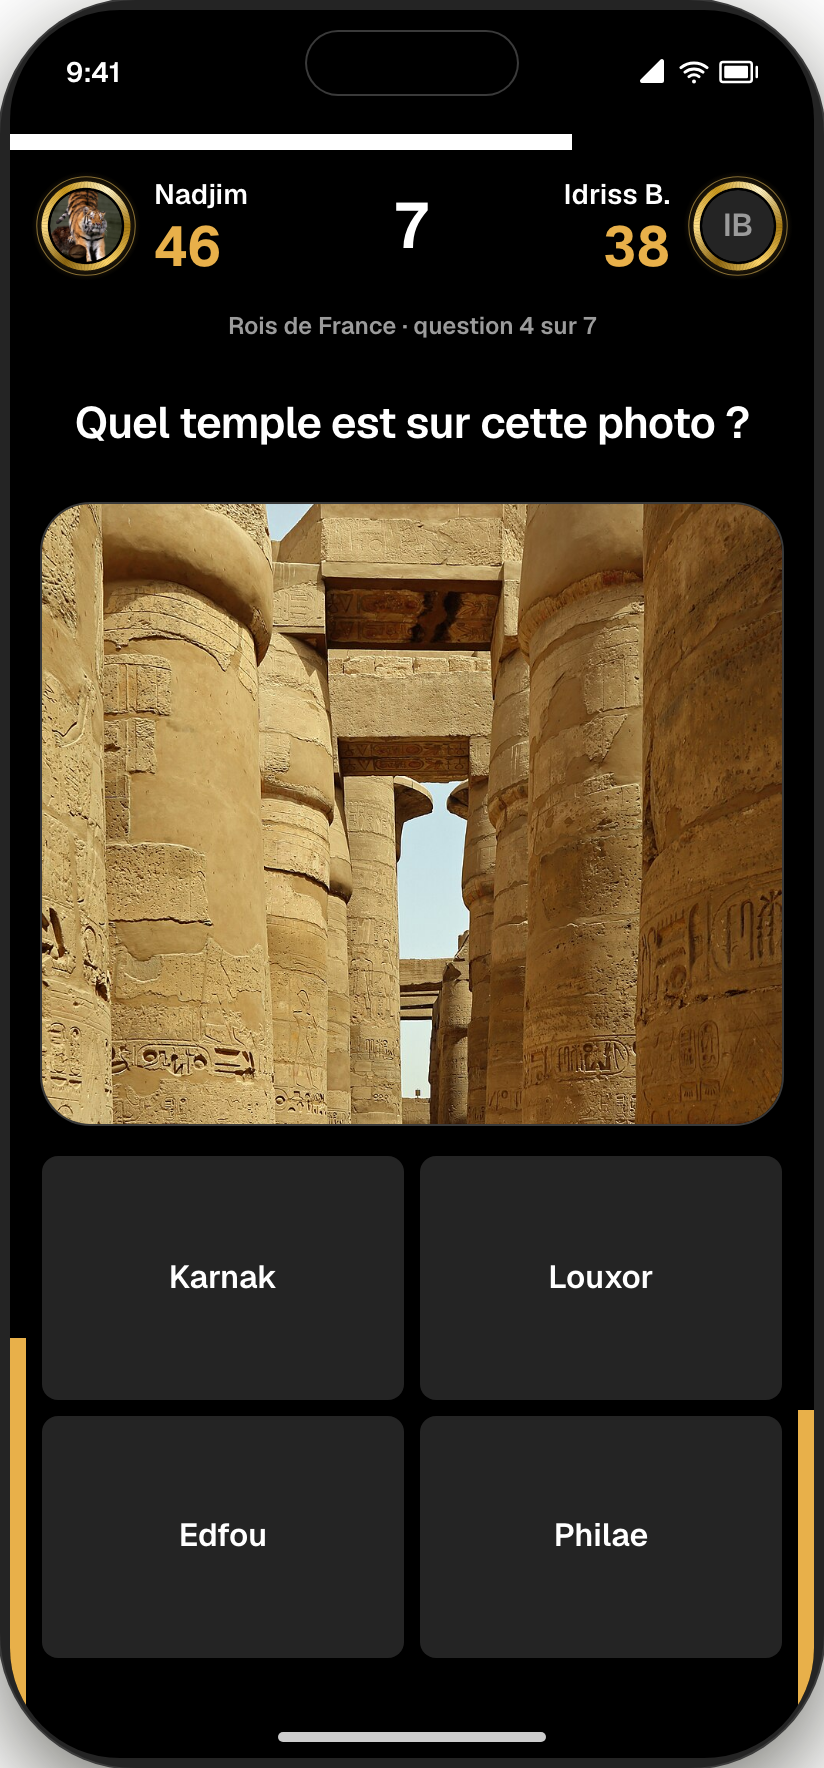
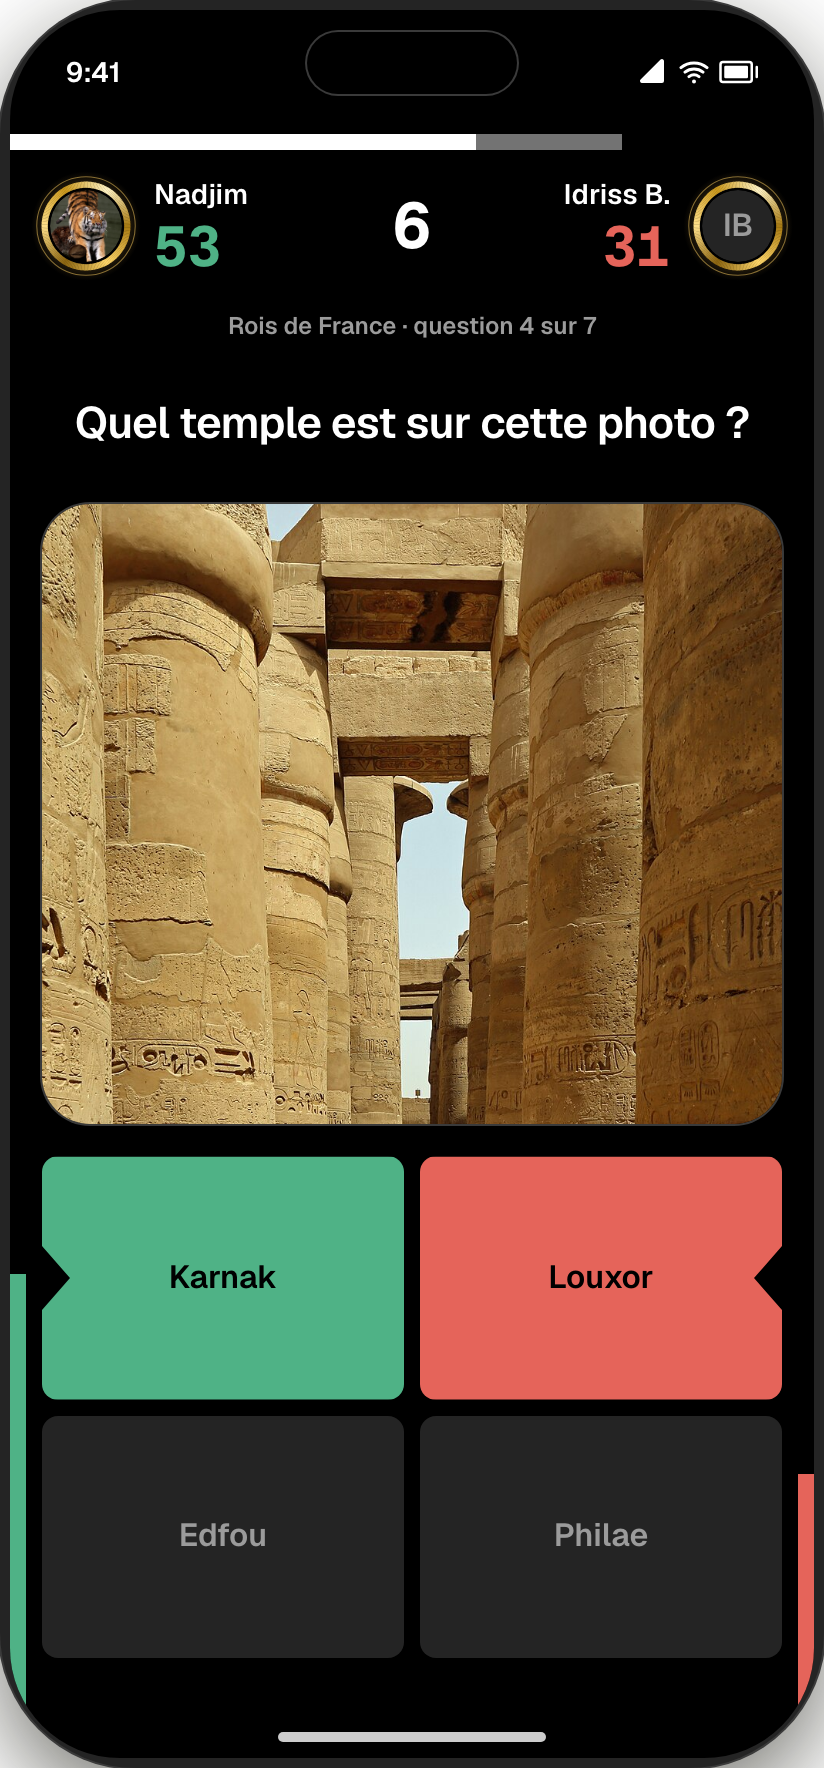
feat(design): rank strip pages in compact, equal store buttons, final reveal hero capture

diff --git a/src/scripts/site.ts b/src/scripts/site.ts
@@ -41,3 +41,41 @@ if (header && menu && button) {
     }
   });
 }
+
+/**
+ * Rangée des rangs (`RankStrip`) en compact : points de page (`PageDots` du lab) et flèches, masquées en début
+ * ou en fin de rangée. Au-delà de 768 px, la rangée tient sur une ligne : rien à afficher.
+ */
+const DOT = "jo-transition h-1.5 rounded-jo-xs";
+
+for (const strip of document.querySelectorAll<HTMLElement>("[data-rank-strip]")) {
+  const scroller = strip.querySelector<HTMLElement>("[data-rank-scroller]");
+  const prev = strip.querySelector<HTMLButtonElement>("[data-rank-prev]");
+  const next = strip.querySelector<HTMLButtonElement>("[data-rank-next]");
+  const dots = strip.querySelector<HTMLElement>("[data-rank-dots]");
+  if (!scroller || !prev || !next || !dots) continue;
+
+  const update = () => {
+    const count = Math.max(1, Math.ceil(scroller.scrollWidth / scroller.clientWidth - 0.05));
+    const atEnd = scroller.scrollLeft + scroller.clientWidth >= scroller.scrollWidth - 2;
+    const index = atEnd ? count - 1 : Math.min(count - 1, Math.round(scroller.scrollLeft / scroller.clientWidth));
+    const scrollable = count > 1;
+    prev.hidden = next.hidden = dots.hidden = !scrollable;
+    prev.classList.toggle("invisible", index === 0);
+    next.classList.toggle("invisible", index === count - 1);
+    dots.setAttribute("aria-label", `${index + 1} sur ${count}`);
+    dots.replaceChildren(
+      ...Array.from({ length: count }, (_, dot) => {
+        const span = document.createElement("span");
+        span.className = `${DOT} ${dot === index ? "w-5 bg-jo-accent" : dot < index ? "w-1.5 bg-jo-muted" : "w-1.5 bg-jo-border"}`;
+        return span;
+      }),
+    );
+  };
+  const go = (direction: 1 | -1) => scroller.scrollBy({ left: direction * scroller.clientWidth * 0.8, behavior: "smooth" });
+  prev.addEventListener("click", () => go(-1));
+  next.addEventListener("click", () => go(1));
+  scroller.addEventListener("scroll", update, { passive: true });
+  new ResizeObserver(update).observe(scroller);
+  update();
+}
